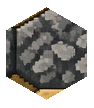
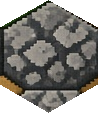
fix(match): seat a clean 9×7 honeycomb and chunk the Soft HUD rail
UNKNOWN was cropped between two painted hexes, so each stamp carried a neighbor edge and a second mark that tiled as a stair. Recenter one face per terrain on the canon flat-to-flat pitch and fit that face to the cell. Desk covers use the table color instead of a dark wood panel. Ability chips and HIGH GROUND keep the H1–H4 rail and pick up a thick ink outline.

diff --git a/tools/extract_canon_sprites.py b/tools/extract_canon_sprites.py
@@ -154,6 +154,40 @@ def apply_hex_mask(img: Image.Image) -> Image.Image:
     return out
 
 
+## Measured on match-board-canon.jpg. Same-row ? centers sit ~98px apart
+## (flat-to-flat). A 94×108 window centered between rows pulled the neighbor
+## border and a second ? into the mask, which tiled as a stair-stack.
+BOARD_PITCH = 98.0
+BOARD_HEX_CENTERS = {
+    "hex_open": (472, 216),
+    "hex_brush": (664, 216),
+    "hex_hard": (712, 300),
+    "hex_unknown": (517, 150),
+}
+
+
+def isolate_board_hex(plate: Image.Image, cx: float, cy: float, pitch: float = BOARD_PITCH) -> Image.Image:
+    """One pointy face. Width is flat-to-flat, height is point-to-point."""
+    width = int(round(pitch))
+    height = int(round(2.0 * pitch / math.sqrt(3.0)))
+    left = int(round(cx - width / 2.0))
+    top = int(round(cy - height / 2.0))
+    raw = plate.crop((left, top, left + width, top + height))
+    mask = Image.new("L", (width, height), 0)
+    draw = ImageDraw.Draw(mask)
+    rad = width / math.sqrt(3.0)
+    ccx = (width - 1) / 2.0
+    ccy = (height - 1) / 2.0
+    pts = []
+    for i in range(6):
+        ang = math.radians(60.0 * i - 30.0)
+        pts.append((ccx + rad * math.cos(ang), ccy + rad * math.sin(ang)))
+    draw.polygon(pts, fill=255)
+    out = raw.convert("RGBA")
+    out.putalpha(mask)
+    return out
+
+
 def extract_hex(hex_map: Image.Image) -> None:
     ## Tileable OPEN/BRUSH/HARD/? stamps from the match-board / hex-map plate.
     ## One face per kind — not a unique full-map painting.
@@ -171,17 +205,11 @@ def extract_hex(hex_map: Image.Image) -> None:
         raw = crop(hex_map, box, f"{name}_legend_raw")
         save_sprite(apply_hex_mask(raw), f"{name}_legend.png")
 
-    ## One tileable board face per kind — not unique per-hex map crops.
-    board = {
-        "hex_open": box_at(469, 218, 47, 54),
-        "hex_brush": box_at(656, 218, 47, 54),
-        "hex_hard": box_at(796, 299, 47, 54),
-        ## 328 landed the ? on the right edge, so tiled UNKNOWN marks stacked into the next cell.
-        "hex_unknown": box_at(360, 297, 47, 54),
-    }
-    for name, box in board.items():
-        raw = crop(hex_map, box, f"{name}_board_raw")
-        save_sprite(apply_hex_mask(raw), f"{name}_tile.png")
+    ## One tileable board face per kind. Center is the painted hex, pitch is
+    ## the canon flat-to-flat gap, so the mask does not swallow the neighbor.
+    for name, center in BOARD_HEX_CENTERS.items():
+        face = isolate_board_hex(hex_map, center[0], center[1])
+        save_sprite(face, f"{name}_tile.png")
 
     ## Clump-only overlays from the same brush / hard faces.
     brush = crop(hex_map, box_at(656, 218, 22, 20), "brush_clump_raw")
